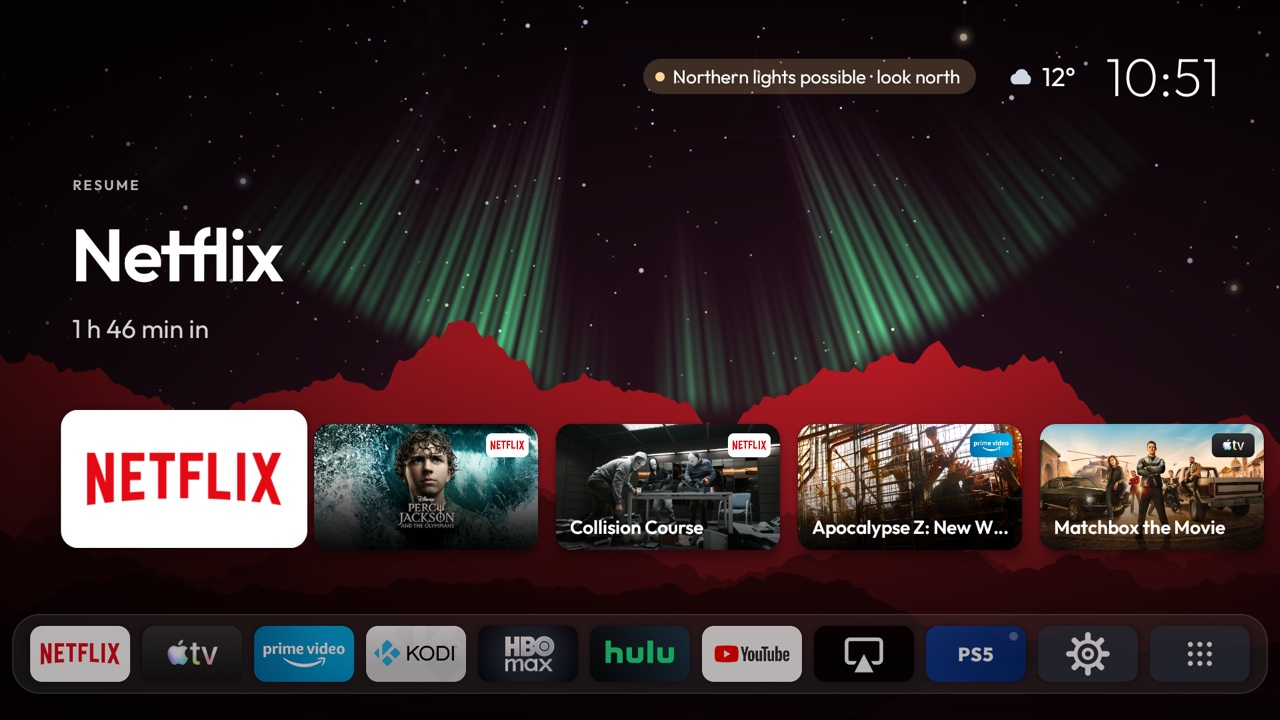
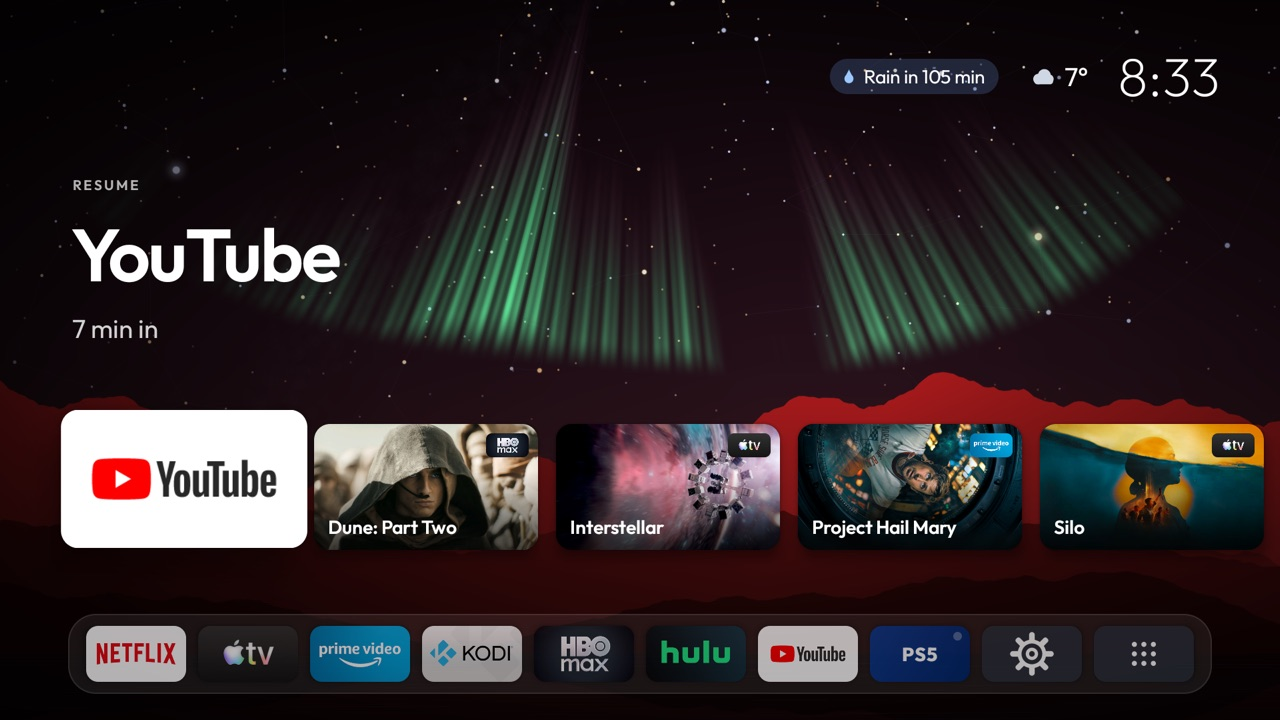
Screenshots of 1.4.0: picks with their reasons, and no AirPlay tile
Retaken on the TV running the released 1.4.0. The home screens and All apps
no longer show the AirPlay tile, and the row shows picks, each with its
reason. The daytime shot now shows a pick in place of "Usually now". The
picks come from a stand-in history, not anyone's real viewing.

diff --git a/README.md b/README.md
@@ -59,8 +59,8 @@ No ads, no sponsored rows, no account. It learns your habits on the TV and keeps
 
 | | |
 |---|---|
-| ![Daytime home screen](docs/screenshots/home-day.jpg) | ![A new film on one of your apps](docs/screenshots/new-on-your-apps.jpg) |
-| The app you usually open at this hour comes first | New and trending on your services |
+| ![A pick, saying why it's there](docs/screenshots/home-day.jpg) | ![A new film on one of your apps](docs/screenshots/new-on-your-apps.jpg) |
+| Picks from what you watch, each saying why | New and trending on your services |
 | ![The weather panel](docs/screenshots/weather.jpg) | ![All apps](docs/screenshots/all-apps.jpg) |
 | Weather, from the temperature in the corner | All apps, without the clutter |
 | ![The space station crossing the sky](docs/screenshots/space-station.jpg) | ![The northern lights during a strong storm](docs/screenshots/northern-lights.jpg) |
